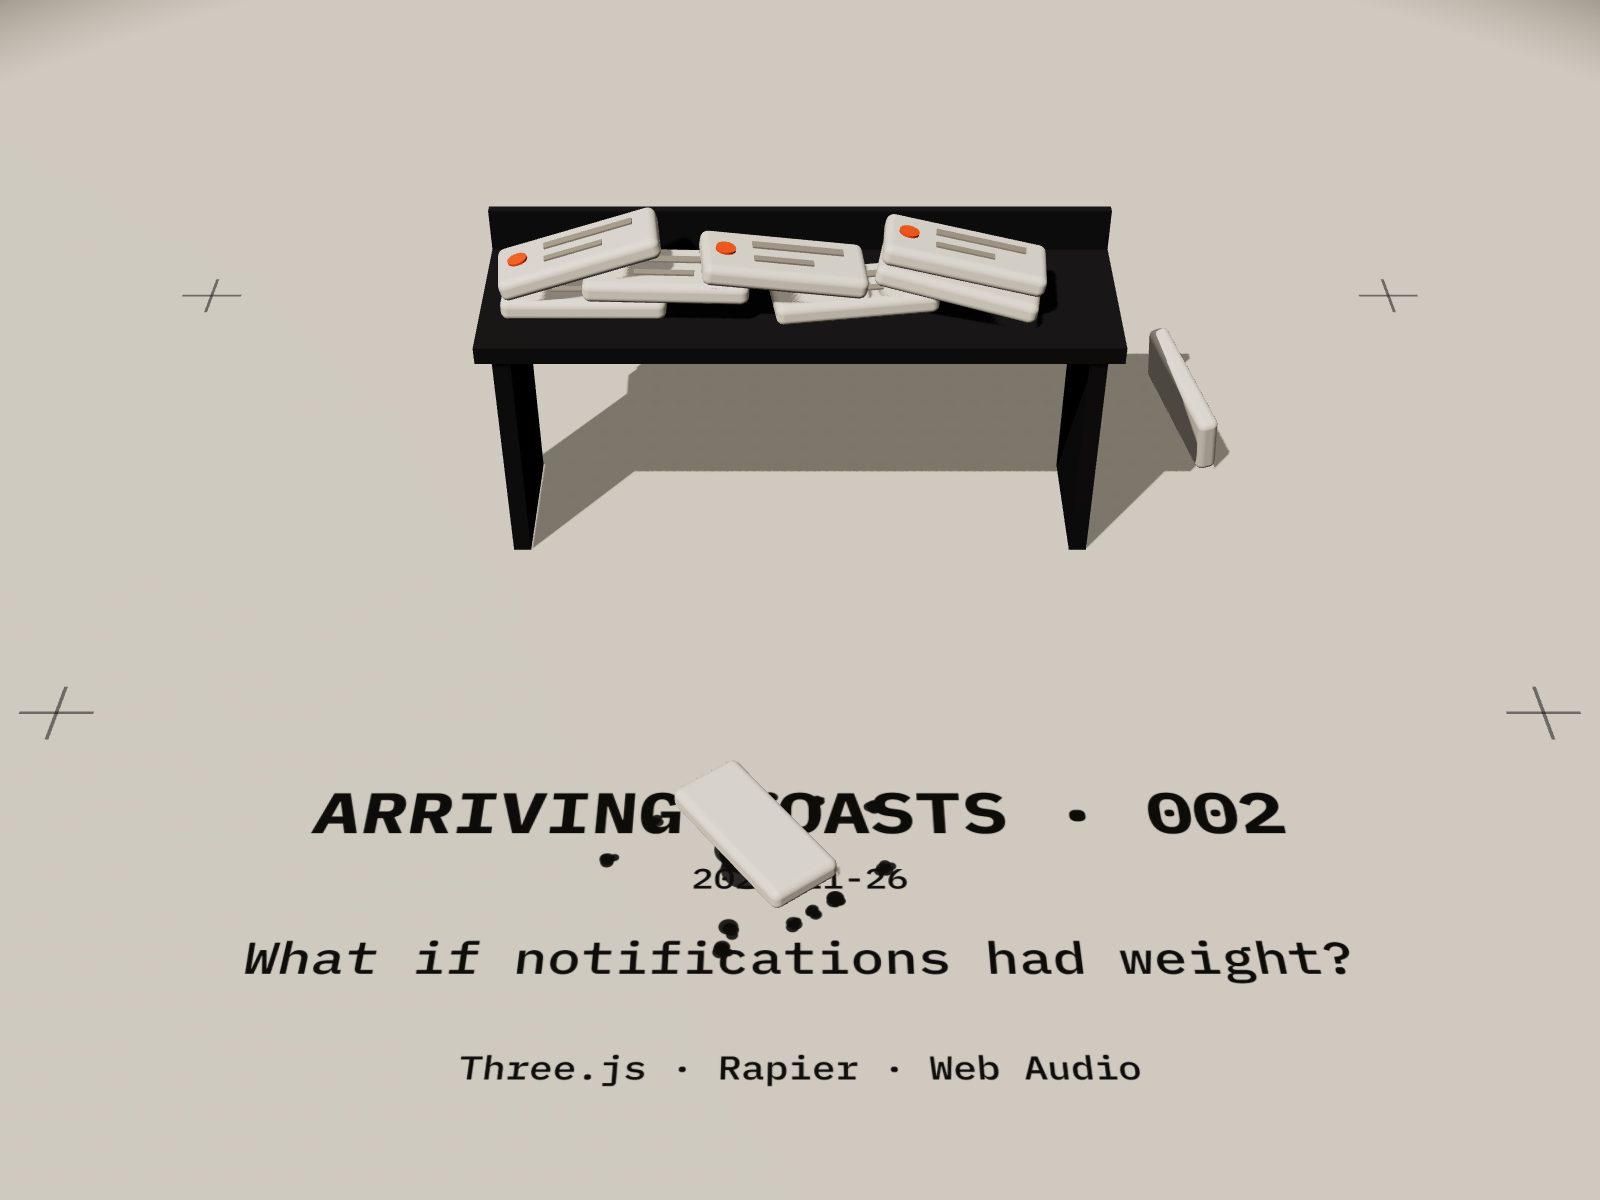
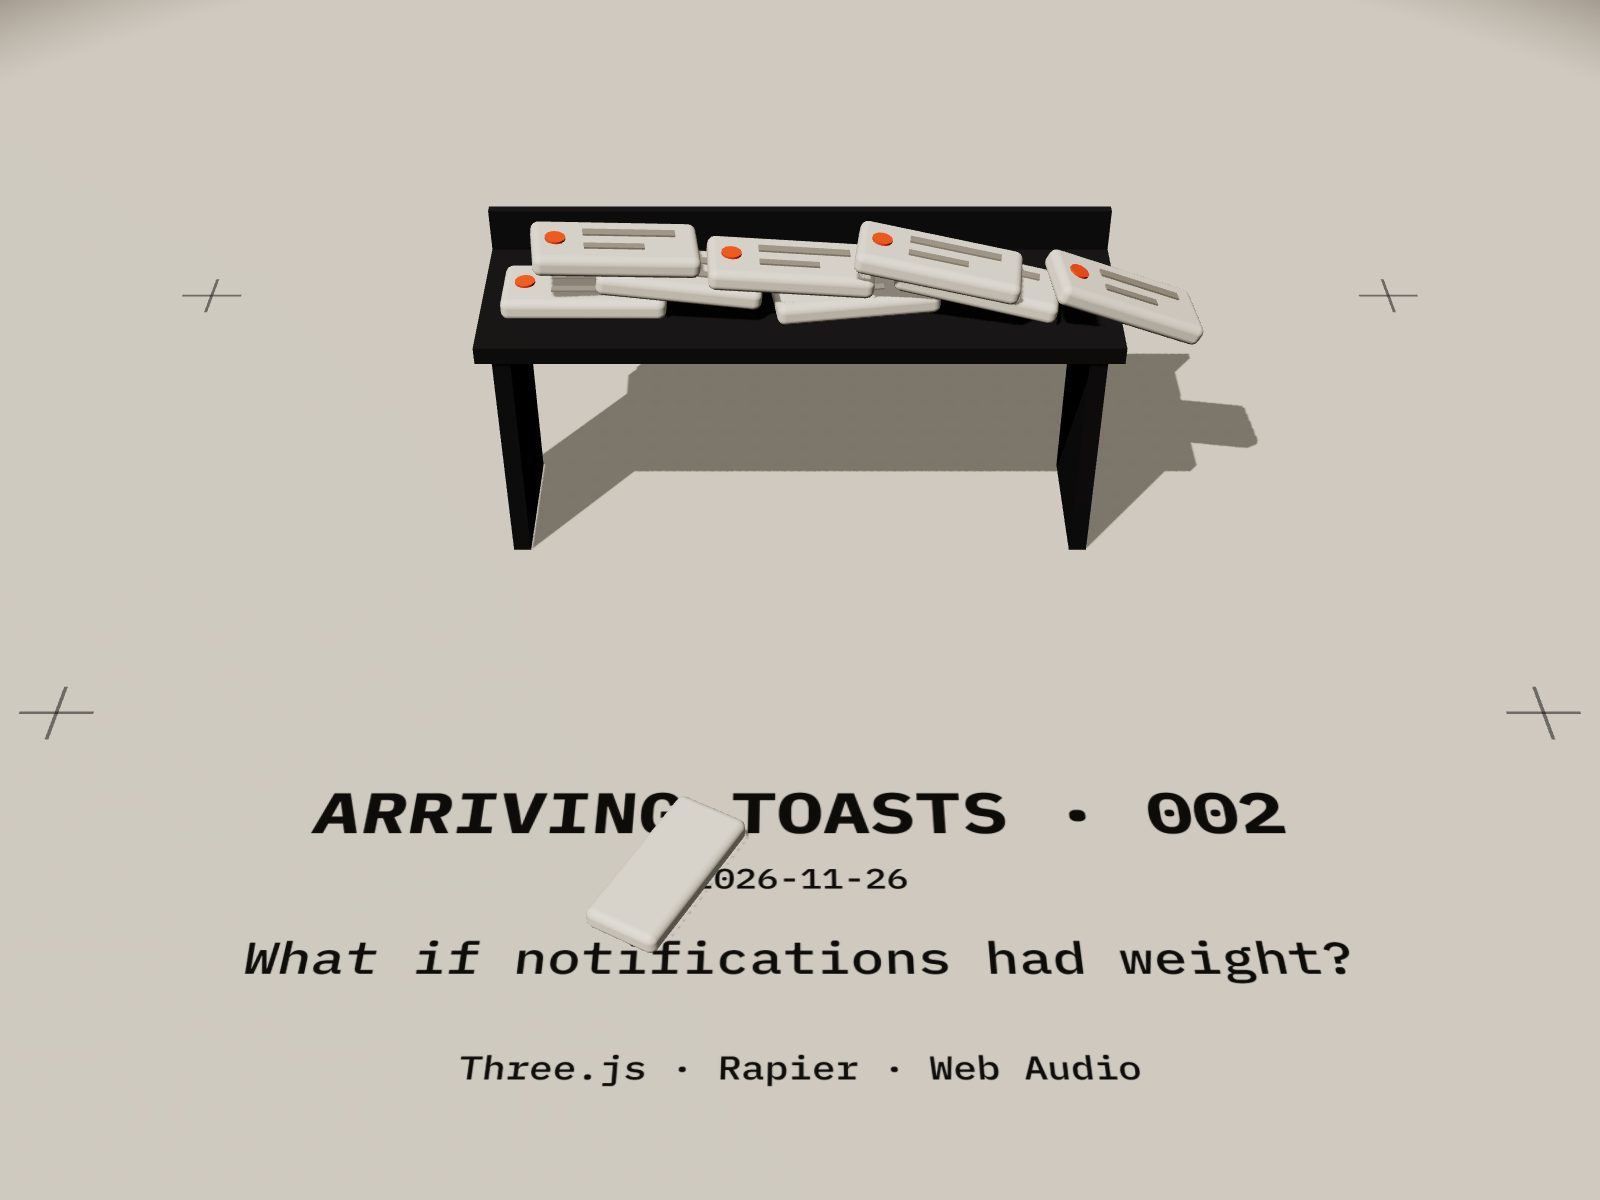
feat: sketch 003 drum picker

diff --git a/sketches/003-drum-picker/main.ts b/sketches/003-drum-picker/main.ts
@@ -1,0 +1,248 @@
+import { BoxGeometry, CylinderGeometry, Group, Mesh, MeshStandardMaterial, Vector3, type Object3D } from 'three'
+import { Text } from 'troika-three-text'
+import { CAP_HEIGHT, FONTS, PALETTE, createDrag, createStage, type SketchMeta } from '@ux-sketches/stage'
+import '@ux-sketches/stage/stage.css'
+import meta from './sketch.json' with { type: 'json' }
+import { snapToDetent, spinStep, valueAt } from './drum.ts'
+
+const stage = await createStage(document.getElementById('stage')!, { meta: meta as SketchMeta, physics: true, sound: true })
+
+if (stage && stage.world && stage.rapier) {
+  const { scene, world, rapier, sound } = stage
+  const TAU = Math.PI * 2
+  const R = 0.3
+  const AXLE_Y = 0.42
+  /** Where the window sits on the drum: tilted up toward the camera. */
+  const WINDOW = 0.5
+  const SPIN = { friction: 2.2, maxVelocity: 25 }
+  const HOP_SPEED = 9
+  /** Where the picker's centre may be dragged: far enough forward to reach the letters, no further. */
+  const BAY = { x: 1.0, zMin: -0.7, zMax: 0.75 }
+
+  const MONTHS = ['JAN', 'FEB', 'MAR', 'APR', 'MAY', 'JUN', 'JUL', 'AUG', 'SEP', 'OCT', 'NOV', 'DEC']
+  type DrumSpec = { name: string; values: string[]; width: number; x: number; start: number }
+  const specs: DrumSpec[] = [
+    { name: 'day', values: Array.from({ length: 31 }, (_, i) => String(i + 1).padStart(2, '0')), width: 0.2, x: -0.34, start: 25 },
+    { name: 'month', values: MONTHS, width: 0.28, x: -0.04, start: 10 },
+    { name: 'year', values: Array.from({ length: 16 }, (_, i) => String(2020 + i)), width: 0.3, x: 0.3, start: 6 },
+  ]
+
+  // The picker: a heavy frame on the floor, one dynamic body, with three drums on a shared axle.
+  const picker = new Group()
+  scene.add(picker)
+  const frameMat = new MeshStandardMaterial({ color: '#2b2b2e', roughness: 0.55, metalness: 0.2 })
+  const shadow = <T extends Mesh>(m: T) => ((m.castShadow = true), (m.receiveShadow = true), m)
+  const base = shadow(new Mesh(new BoxGeometry(1.0, 0.08, 0.5), frameMat))
+  base.position.y = 0.04
+  const cheeks = [-0.52, 0.52].map((x) => {
+    const m = shadow(new Mesh(new BoxGeometry(0.04, AXLE_Y + 0.08, 0.16), frameMat))
+    m.position.set(x, (AXLE_Y + 0.08) / 2, 0)
+    return m
+  })
+  picker.add(base, ...cheeks)
+
+  // Readout plate on the front of the base.
+  const readout = new Text()
+  readout.font = FONTS.bold
+  readout.fontSize = 0.045 / CAP_HEIGHT
+  readout.color = PALETTE.tile
+  readout.anchorX = 'center'
+  readout.anchorY = 'middle'
+  readout.rotation.x = -Math.PI / 2
+  readout.position.set(0, 0.081, 0.19)
+  picker.add(readout)
+
+  const drumMat = new MeshStandardMaterial({ color: PALETTE.tile, roughness: 0.5 })
+  const labelMat = new MeshStandardMaterial({ color: PALETTE.ink, roughness: 0.8 })
+  const bandMat = new MeshStandardMaterial({ color: PALETTE.accent, roughness: 0.4 })
+  type Drum = DrumSpec & { group: Group; mesh: Mesh; angle: number; velocity: number; held: boolean; lastDetent: number }
+  const drums: Drum[] = specs.map((spec) => {
+    const group = new Group()
+    group.position.set(spec.x, AXLE_Y, 0)
+    picker.add(group)
+    const mesh = shadow(new Mesh(new CylinderGeometry(R, R, spec.width, 64), drumMat))
+    mesh.rotation.z = Math.PI / 2
+    group.add(mesh)
+    const slot = TAU / spec.values.length
+    spec.values.forEach((v, i) => {
+      const t = new Text()
+      t.text = v
+      t.font = FONTS.bold
+      t.fontSize = Math.min(0.05, slot * R * 0.62) / CAP_HEIGHT
+      t.material = labelMat
+      t.color = PALETTE.ink
+      t.anchorX = 'center'
+      t.anchorY = 'middle'
+      const phi = i * slot + WINDOW
+      t.position.set(0, R * Math.sin(phi) + Math.sin(phi) * 0.001, R * Math.cos(phi) + Math.cos(phi) * 0.001)
+      t.rotation.x = -phi
+      t.sync()
+      group.add(t)
+    })
+    // The window: two accent bars just outside the drum, either side of the selected value.
+    for (const s of [-0.5, 0.5]) {
+      const phi = WINDOW + s * slot
+      const bar = new Mesh(new BoxGeometry(spec.width + 0.02, 0.006, 0.006), bandMat)
+      bar.position.set(spec.x, AXLE_Y + (R + 0.012) * Math.sin(phi), (R + 0.012) * Math.cos(phi))
+      picker.add(bar)
+    }
+    mesh.userData.drum = spec.name
+    const angle = spec.start * slot
+    return { ...spec, group, mesh, angle, velocity: 0, held: false, lastDetent: spec.start }
+  })
+
+  // Physics for the whole picker: a heavy box on the floor that can hop and be shoved.
+  const start = { x: 0, y: 0.04, z: -0.05 }
+  const body = world.createRigidBody(rapier.RigidBodyDesc.dynamic().setTranslation(start.x, start.y, start.z).setAngularDamping(1.2).setLinearDamping(0.4).setCcdEnabled(true))
+  world.createCollider(rapier.ColliderDesc.cuboid(0.5, 0.04, 0.25).setDensity(900).setFriction(0.9), body)
+  world.createCollider(rapier.ColliderDesc.cuboid(0.54, (AXLE_Y + R) / 2, 0.14).setTranslation(0, (AXLE_Y + R) / 2, 0).setDensity(120), body)
+  stage.bind(picker, body)
+
+  const status = document.createElement('p')
+  status.className = 'sr-only'
+  status.setAttribute('aria-live', 'polite')
+  stage.container.append(status)
+
+  const current = () => drums.map((d) => valueAt(d.angle, d.values))
+  const isRealDate = ([day, month, year]: string[]) => {
+    const m = MONTHS.indexOf(month)
+    const d = new Date(Date.UTC(Number(year), m, Number(day)))
+    return d.getUTCDate() === Number(day)
+  }
+  let shown = ''
+  const showDate = () => {
+    const parts = current()
+    const text = parts.join(' ')
+    if (text === shown) return
+    shown = text
+    const real = isRealDate(parts)
+    readout.text = real ? text : `${text} ?`
+    readout.sync()
+    status.textContent = `Selected date: ${text}${real ? '' : ' (not a real date)'}.`
+  }
+  showDate()
+
+  // One drag: a drum turns with a vertical drag; the base slides the whole picker across the floor.
+  let grabbed: Drum | null = null
+  let dragBase = false
+  const grabOffset = new Vector3()
+  let dragVelocity = 0
+  const drumOf = (o: Object3D | null) => drums.find((d) => d.mesh === o) ?? null
+  createDrag(stage, {
+    targets: [...drums.map((d) => d.mesh), base, ...cheeks],
+    plane: (hit) => (drumOf(hit.object) ? 'vertical' : 'floor'),
+    onStart(hit) {
+      grabbed = drumOf(hit.object)
+      if (grabbed) {
+        grabbed.held = true
+        grabbed.velocity = 0
+        dragVelocity = 0
+      } else {
+        dragBase = true
+        const t = body.translation()
+        grabOffset.set(hit.point.x - t.x, 0, hit.point.z - t.z)
+      }
+    },
+    onMove(point, delta) {
+      if (grabbed) {
+        // Pulling down on the front of a drum turns it forward.
+        const turn = -delta.y / R
+        grabbed.angle += turn
+        dragVelocity = dragVelocity * 0.6 + (turn / (1 / 60)) * 0.4
+      } else if (dragBase) {
+        // The picker can be shoved anywhere on the bay up to its label, but not up to the camera.
+        const t = body.translation()
+        const tx = Math.max(-BAY.x, Math.min(BAY.x, point.x - grabOffset.x))
+        const tz = Math.max(BAY.zMin, Math.min(BAY.zMax, point.z - grabOffset.z))
+        const vx = Math.max(-4, Math.min(4, (tx - t.x) * 12))
+        const vz = Math.max(-4, Math.min(4, (tz - t.z) * 12))
+        body.setLinvel({ x: vx, y: body.linvel().y, z: vz }, true)
+      }
+    },
+    onEnd() {
+      if (grabbed) {
+        grabbed.held = false
+        grabbed.velocity = stage.reducedMotion ? 0 : dragVelocity
+        if (stage.reducedMotion) grabbed.angle = snapToDetent(grabbed.angle, grabbed.values.length)
+      }
+      grabbed = null
+      dragBase = false
+    },
+  })
+
+  let hopCooldown = 0
+  let lastTick = 0
+  stage.onFrame((dt, t) => {
+    let fastest = 0
+    for (const d of drums) {
+      const count = d.values.length
+      const slot = TAU / count
+      if (!d.held) {
+        d.velocity = spinStep(d.velocity, dt, SPIN)
+        if (Math.abs(d.velocity) < 2) {
+          // Settle onto the nearest detent, with a little overshoot unless motion is reduced.
+          const target = snapToDetent(d.angle, count)
+          if (stage.reducedMotion) {
+            d.angle = target
+            d.velocity = 0
+          } else d.velocity += (140 * (target - d.angle) - 9 * d.velocity) * dt
+        }
+        d.angle += d.velocity * dt
+      }
+      fastest = Math.max(fastest, Math.abs(d.held ? dragVelocity : d.velocity))
+      const detent = Math.round(d.angle / slot)
+      if (detent !== d.lastDetent) {
+        d.lastDetent = detent
+        if (t - lastTick > 0.025) {
+          sound.tick({ pitch: 0.8 + (count % 7) * 0.08 })
+          lastTick = t
+        }
+      }
+      d.group.rotation.x = d.angle
+    }
+    showDate()
+
+    // Spun hard enough, the whole picker rattles and hops, and walks forward into the letters.
+    hopCooldown -= dt
+    const pos = body.translation()
+    const grounded = pos.y < 0.08 && Math.abs(body.linvel().y) < 0.5
+    if (!stage.reducedMotion && fastest > HOP_SPEED && hopCooldown <= 0 && grounded) {
+      // Small hops that walk it forward until it reaches its label; never a launch.
+      const m = body.mass()
+      const k = Math.min(1.4, fastest / HOP_SPEED)
+      const forward = pos.z < BAY.zMax ? m * (0.22 + Math.random() * 0.16) * k : 0
+      body.applyImpulse({ x: (Math.random() - 0.5) * m * 0.12, y: m * 0.55 * k, z: forward }, true)
+      body.applyTorqueImpulse({ x: 0, y: (Math.random() - 0.5) * m * 0.02, z: (Math.random() - 0.5) * m * 0.01 }, true)
+      sound.thunk({ gain: 0.35, pitch: 1.4 })
+      hopCooldown = 0.14
+    }
+    // Safety net: if the picker ever leaves the stage, put it back.
+    if (pos.y < -0.5 || Math.abs(pos.x) > 3 || pos.z > 2 || pos.z < -2.5) resetPicker()
+  })
+
+  function resetPicker() {
+    body.setTranslation(start, true)
+    body.setRotation({ x: 0, y: 0, z: 0, w: 1 }, true)
+    body.setLinvel({ x: 0, y: 0, z: 0 }, true)
+    body.setAngvel({ x: 0, y: 0, z: 0 }, true)
+  }
+
+  stage.onReset(() => {
+    resetPicker()
+    for (const d of drums) {
+      d.angle = d.start * (TAU / d.values.length)
+      d.velocity = 0
+      d.held = false
+    }
+    grabbed = null
+    dragBase = false
+    showDate()
+  })
+
+  if (stage.thumbnail) {
+    // Mid-gamble: the year drum spun hard, the picker hopped into the letters.
+    drums[2].velocity = 24
+    drums[0].velocity = -18
+    setTimeout(() => stage.ready(), 3500)
+  } else setTimeout(() => stage.ready(), 500)
+}

diff --git a/packages/stage/src/drag.ts b/packages/stage/src/drag.ts
@@ -1,10 +1,15 @@
 import { Plane, Raycaster, Vector2, Vector3, type Intersection, type Object3D } from 'three'
 import type { Stage } from './stage.ts'
 
+export type DragPlane = 'floor' | 'vertical'
+
 export type DragOptions = {
   targets: Object3D[]
-  /** 'floor': a horizontal plane through the grab point. 'vertical': an upright plane through it, facing the camera. */
-  plane: 'floor' | 'vertical'
+  /**
+   * 'floor': a horizontal plane through the grab point. 'vertical': an upright plane through it, facing the
+   * camera. A function picks per grab, from what was hit.
+   */
+  plane: DragPlane | ((hit: Intersection) => DragPlane)
   onStart?(hit: Intersection): void
   onMove?(point: Vector3, delta: Vector3): void
   onEnd?(): void
@@ -42,7 +47,8 @@ export function createDrag(stage: Stage, o: DragOptions): () => void {
     aim(e)
     const hit = ray.intersectObjects(o.targets, true)[0]
     if (!hit) return
-    if (o.plane === 'floor') plane.setFromNormalAndCoplanarPoint(new Vector3(0, 1, 0), hit.point)
+    const kind = typeof o.plane === 'function' ? o.plane(hit) : o.plane
+    if (kind === 'floor') plane.setFromNormalAndCoplanarPoint(new Vector3(0, 1, 0), hit.point)
     else {
       const n = camera.position.clone().sub(hit.point).setY(0).normalize()
       plane.setFromNormalAndCoplanarPoint(n, hit.point)

diff --git a/sketches/003-drum-picker/tests/drum.test.ts b/sketches/003-drum-picker/tests/drum.test.ts
@@ -1,0 +1,32 @@
+import { test } from 'node:test'
+import assert from 'node:assert/strict'
+import { snapToDetent, spinStep, valueAt } from '../drum.ts'
+
+const slot = (count: number) => (Math.PI * 2) / count
+const close = (a: number, b: number) => Math.abs(a - b) < 1e-9
+
+test('snapToDetent rounds to the nearest of count slots', () => {
+  assert.ok(close(snapToDetent(slot(12) * 0.4, 12), 0))
+  assert.ok(close(snapToDetent(slot(12) * 0.6, 12), slot(12)))
+  assert.ok(close(snapToDetent(-slot(12) * 2.3, 12), -slot(12) * 2))
+})
+
+test('valueAt wraps negative and multi-turn angles', () => {
+  const values = ['a', 'b', 'c', 'd']
+  assert.equal(valueAt(0, values), 'a')
+  assert.equal(valueAt(-slot(4), values), 'd')
+  assert.equal(valueAt(slot(4) * 5, values), 'b')
+  assert.equal(valueAt(slot(4) * 1.4, values), 'b')
+})
+
+test('spinStep decays toward zero', () => {
+  let v = 10
+  for (let i = 0; i < 600; i++) v = spinStep(v, 1 / 60, { friction: 2.2, maxVelocity: 25 })
+  assert.ok(Math.abs(v) < 0.01)
+  assert.ok(spinStep(-5, 1 / 60, { friction: 2.2, maxVelocity: 25 }) > -5)
+})
+
+test('spinStep clamps velocity', () => {
+  assert.equal(spinStep(250, 0, { friction: 2.2, maxVelocity: 25 }), 25)
+  assert.equal(spinStep(-250, 0, { friction: 2.2, maxVelocity: 25 }), -25)
+})

diff --git a/sketches/003-drum-picker/drum.ts b/sketches/003-drum-picker/drum.ts
@@ -1,0 +1,20 @@
+const TAU = Math.PI * 2
+
+/** The angle of the nearest of `count` evenly spaced detents. */
+export function snapToDetent(angle: number, count: number): number {
+  const slot = TAU / count
+  return Math.round(angle / slot) * slot
+}
+
+/** The value under the window at this drum angle, wrapping any number of turns either way. */
+export function valueAt<T>(angle: number, values: T[]): T {
+  const slot = TAU / values.length
+  const i = Math.round(angle / slot) % values.length
+  return values[(i + values.length) % values.length]
+}
+
+/** One step of a free spin: clamped to ±maxVelocity, then decayed by friction (per second). */
+export function spinStep(velocity: number, dt: number, o: { friction: number; maxVelocity: number }): number {
+  const v = Math.max(-o.maxVelocity, Math.min(o.maxVelocity, velocity))
+  return v * Math.exp(-o.friction * dt)
+}

diff --git a/sketches/003-drum-picker/index.html b/sketches/003-drum-picker/index.html
@@ -1,0 +1,14 @@
+<!doctype html>
+<html lang="en">
+  <head>
+    <meta charset="UTF-8" />
+    <meta name="viewport" content="width=device-width, initial-scale=1" />
+    <meta name="description" content="Drum picker: what if picking a date was a gamble? A UX sketch." />
+    <link rel="icon" href="data:," />
+    <title>DRUM PICKER · UX Sketch 003</title>
+  </head>
+  <body>
+    <main id="stage"></main>
+    <script type="module" src="./main.ts"></script>
+  </body>
+</html>
